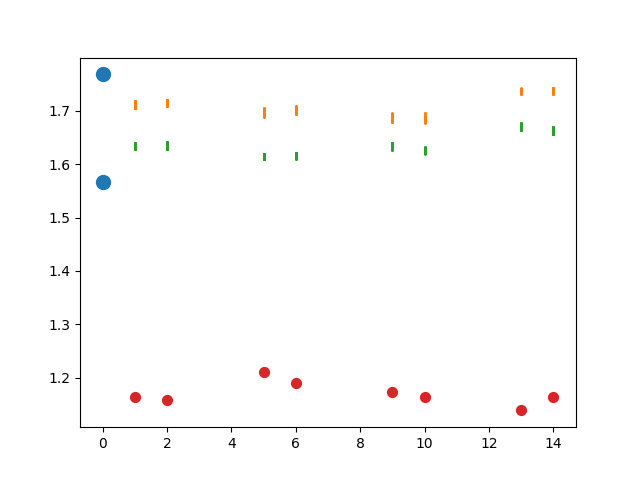
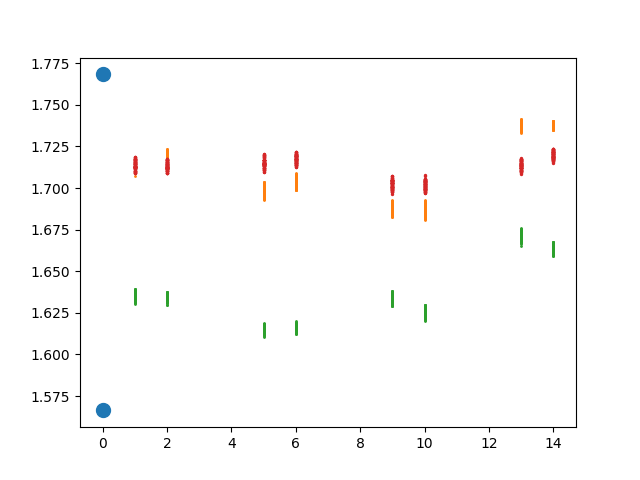
.

diff --git a/analysis-CI.py b/analysis-CI.py
@@ -15,7 +15,7 @@ percentage_heuristic_high = [1.0, -2.2298532996428855, -2.2298532996428855, -2.2
 '''
 n_data = 0
 #bin_size = 0.05
-eps = 1e-10
+eps = 1e-5
 
 rand_size = 160 * 2
 #prior_freq = 0.7518749999999998
@@ -85,10 +85,6 @@ means_data = []
 condition_data = []
 
 
-decision_ground_truth_data = []
-decision_condition_data = []
-decision_means_data = []
-decision_pred_data = []
 
 with open('prob_superiority_yifan.csv', newline='') as f:
 	data = csv.reader(f)
@@ -122,12 +118,14 @@ def binning(bin_size):
 	freq = np.zeros((4, 2, 8, 100), dtype=float)
 	for i in range(n_data):
 		pred = int (inv_log( pred_data[i]) / bin_size)
+		# counting condition, means, groundtruth, the response numbers, empirical distribution
 		freq[condition_dict[condition_data[i]], means_dict[means_data[i]], ground_truth_data[i], pred] += 1
 	return freq
 
 
-bin_size = 0.03
+bin_size = 0.02
 freq = binning(bin_size)
+# compute prior - np.sum(freq[0, 0], axis = 1) is the number of trials with each ground truth, lo_ground_truth winning prob
 prior_freq = np.inner(np.sum(freq[0, 0], axis = 1), lo_ground_truth) / np.sum(freq[0, 0])
 
 def compute_freq(bin_num, bin_size):
@@ -202,6 +200,8 @@ def calc_score(freq_tmp, bin_size):
 
 
 
+
+
 def main():
 
 	
@@ -220,44 +220,50 @@ def main():
 
 
 	
+	decision_ground_truth_dict = {}
+	decision_ground_truth_list = []
+	decision_ground_truth_count = 0
+	decision_freq = np.zeros((4, 2, 8, 2), dtype = float)
 
-
-	decision_pred = np.zeros((4, 2), dtype = float)
-	decision_pred_flip = np.zeros((4, 2), dtype = float)
-	decision_pred_cnt = np.zeros((4, 2, 8), dtype = int)
-	decision_pred_cnt_tmp = np.zeros((4, 2), dtype = int)
-	decision_pred_map = {}
-	decision_wrong_cnt = np.zeros((4, 2, 8), dtype = float)
-	bias_ind = []
 	with open('posterior_predictive_draws_decisions_kale2020.csv', newline = '') as f:
 		data = csv.reader(f)
 		headers = next(data)
 		for row in data:
-			tmp_ground_truth = inv_log(float(row[0]) + qlogis(0.5 + 1.0 / 3.17))
-			if not tmp_ground_truth in decision_pred_map:
-				decision_pred_map[tmp_ground_truth] = decision_pred_cnt_tmp[condition_dict[row[3]], means_dict[row[1]]]
-				decision_pred_cnt_tmp[condition_dict[row[3]], means_dict[row[1]]] += 1
-				bias_ind.append(tmp_ground_truth)
-			decision_pred_cnt[condition_dict[row[3]], means_dict[row[1]], decision_pred_map[tmp_ground_truth]] += 1
-			decision_wrong_cnt[condition_dict[row[3]], means_dict[row[1]], decision_pred_map[tmp_ground_truth]] += (tmp_ground_truth >= 0.81545741) ^ (int(row[10]))
-			decision_pred[condition_dict[row[3]], means_dict[row[1]]] += decision_score(int(row[10]), tmp_ground_truth)
-			decision_pred_flip[condition_dict[row[3]], means_dict[row[1]]] += decision_score(1 - int(row[10]), tmp_ground_truth)
-	#print(decision_pred_map)
-	#print(decision_pred_cnt)
+			if not row[0] in decision_ground_truth_dict:
+				tmp_ground_truth = inv_log(float(row[0]) + qlogis(0.5 + 1.0 / 3.17))
+				flag = True
+				for i in range(len(decision_ground_truth_list)):
+					t = decision_ground_truth_list[i]
+					if eq_err(t, tmp_ground_truth):
+						flag = False
+						decision_ground_truth_dict[row[0]] = i
+				if flag:
+					decision_ground_truth_list.append(tmp_ground_truth)
+					decision_ground_truth_dict[row[0]] = decision_ground_truth_count
+					decision_ground_truth_count += 1
+			decision_freq[condition_dict[row[3]], means_dict[row[1]], decision_ground_truth_dict[row[0]], int(row[10])] += 1
+
+	score_decision = []
+
 	for t in range(4):
 		for m in range(2):
-			print(decision_wrong_cnt[t, m] / decision_pred_cnt[t, m])
+			tmp_decision = []
+			for i in range(100):
+				score_tmp = 0.0
+				for j in range(0, decision_ground_truth_count):
+					sample = random.choices([0, 1], weights = decision_freq[t, m, j], k = rand_size)
+					freq_tmp = float(sum(sample)) / rand_size
+					if t == 0 and m == 0 and i == 0:
+						print(freq_tmp)
+					score_tmp += decision_score(freq_tmp, decision_ground_truth_list[j])
+				score_tmp = score_tmp / decision_ground_truth_count
+				tmp_decision.append(score_tmp)
+				if t == 0 and m == 0 and i == 0:
+					print(score_tmp)
+			tmp_decision.sort()
+			tmp_decision = tmp_decision[2:97]
+			score_decision.extend(tmp_decision)
 
-	for i in range(len(bias_ind)):
-		for j in range(i + 1, len(bias_ind)):
-			if eq_err(bias_ind[i], bias_ind[j]):
-				bias_ind.remove(bias_ind[j])
-	decision_pred = decision_pred / np.sum(decision_pred_cnt, axis = 2)
-	decision_pred_flip = decision_pred_flip / np.sum(decision_pred_cnt, axis = 2)
-	decision_score_ind = []
-	decision_score_final = []
-	decision_score_final_flip = []
-	
 
 	score_bounds = [prior_score, posterior_score]
 	score_bounds_ind = [0, 0]
@@ -283,26 +289,21 @@ def main():
 			score_behav.extend(tmp_behav)
 			score_calib.extend(tmp_calib)
 
-			#decision_score_final.append(decision_score(decision_pred[t, m], list(range(0, n_ground_truth))))
-			decision_score_ind.append(t * 4 + m + 1)
-			decision_score_final.append(decision_pred[t, m])
-			decision_score_final_flip.append(decision_pred_flip[t, m])
-			#decision_score_final.append(decision_score_tmp[(means[m], condition[t])] / decision_count_tmp[(means[m], condition[t])])
-			#decision_score_ind.append(t * 4 + m + 1)
-	print(decision_score_final)
-	#area.extend([1] * (95 * 8))
 	plt.scatter(score_bounds_ind, score_bounds, s = 100)
 	plt.scatter(score_ind, score_calib, s = 1)
 	plt.scatter(score_ind, score_behav, s = 1)
-	plt.scatter(decision_score_ind, decision_score_final, s = 50)
+	plt.scatter(score_ind, score_decision, s = 2)
+	#plt.scatter(decision_score_ind, decision_score_final, s = 50)
 	#plt.scatter(decision_score_ind, decision_score_final_flip, s=30)
 	plt.show()
 
 
+'''
 	for t in range(4):
 		for m in range(2):
 			plt.subplot(8, 1, t * 2 + m  + 1)
 			plt.plot(bias_ind, decision_wrong_cnt[t, m] / decision_pred_cnt[t, m])
 	plt.show()
+'''
 
 main()
